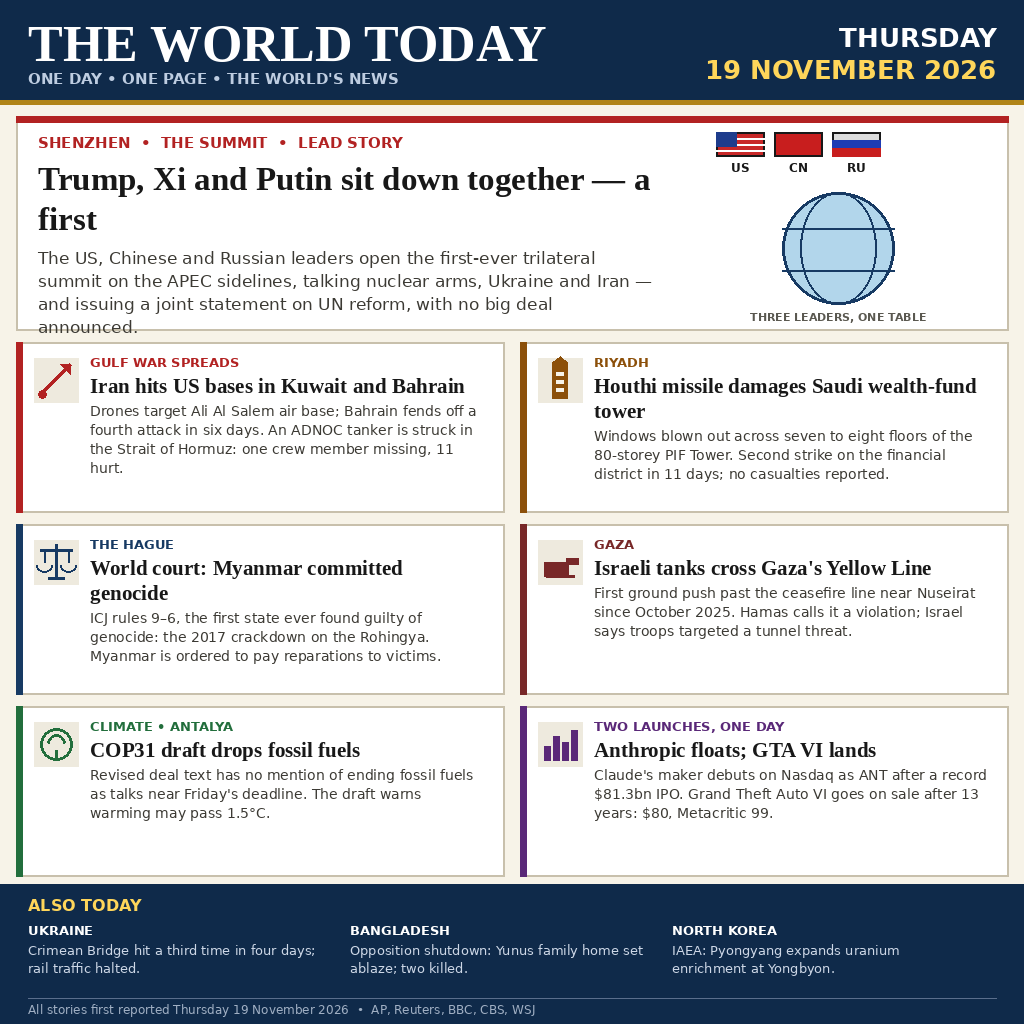
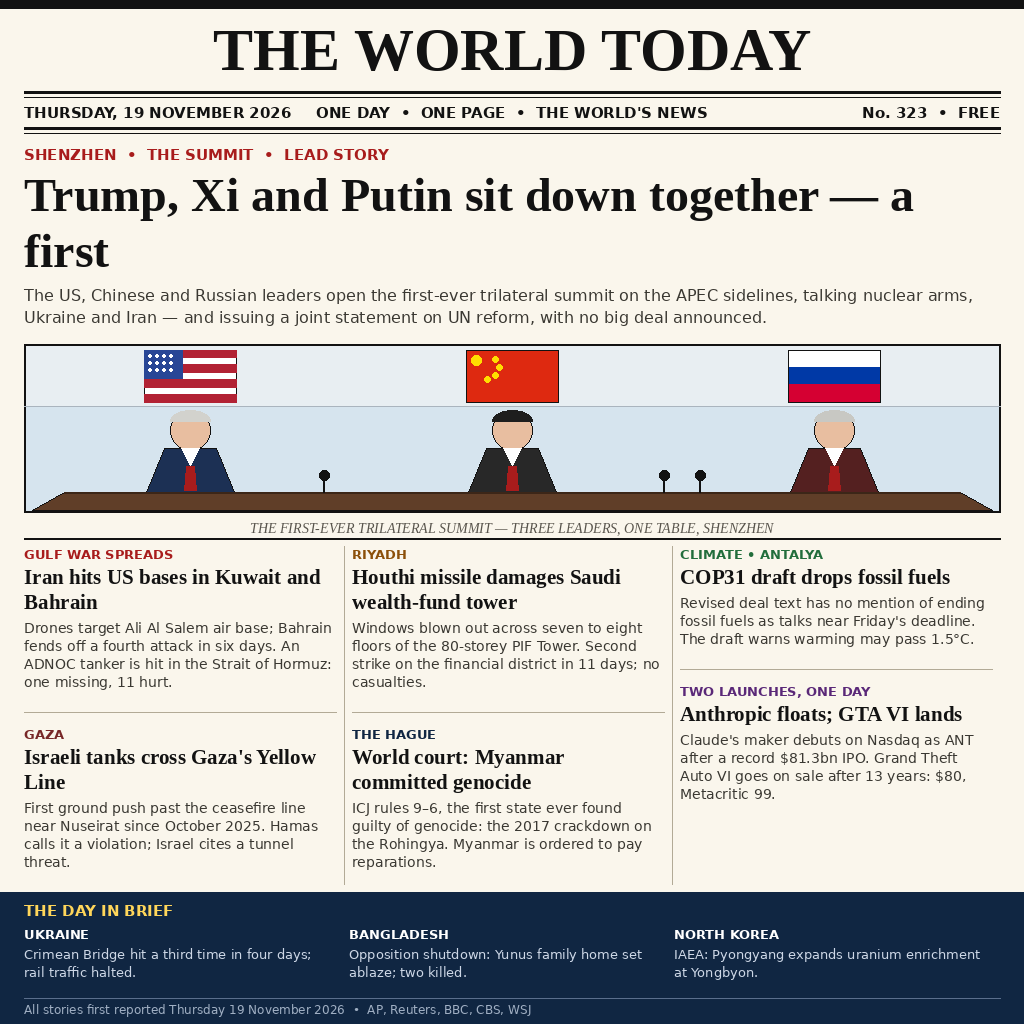
v3: broadsheet front page for 19 Nov 2026

diff --git a/main.ts b/main.ts
@@ -1,4 +1,4 @@
-// news-image-20261119 v2 — "The World Today", Thursday 19 November 2026.
+// news-image-20261119 v3 — "The World Today" broadsheet, Thursday 19 November 2026.
 //
 // The entry is a single front-page image (entry.png, drawn for this day:
 // Shenzhen trilateral summit, Gulf war spreading, Riyadh tower strike,

diff --git a/README.md b/README.md
@@ -6,10 +6,11 @@
 
 ## What this is
 
-**THE WORLD TODAY** — one front page summing up the world's news of
-**Thursday, 19 November 2026**: a navy masthead, one full-width lead
-story with a drawn globe and the three leaders' flags, six colour-coded
-story cards, and an "ALSO TODAY" footer strip.
+**THE WORLD TODAY** — one broadsheet front page summing up the world's
+news of **Thursday, 19 November 2026**: a centred serif masthead, a
+full-width lead headline, a wide drawn scene of the three leaders at one
+summit table under the US, Chinese and Russian flags, a three-column
+story grid, and a "THE DAY IN BRIEF" footer strip.
 
 1. **Trump, Xi and Putin sit down together — a first** (lead): the first-ever
    US–China–Russia trilateral summit opens in Shenzhen on the APEC
@@ -17,10 +18,10 @@ story cards, and an "ALSO TODAY" footer strip.
    statement on UN reform, no big deal announced
 2. **Iran hits US bases in Kuwait and Bahrain**: drones target Ali Al Salem
    air base; Bahrain fends off a fourth attack in six days; an ADNOC tanker
-   is struck in the Strait of Hormuz — one crew member missing, 11 hurt
+   is hit in the Strait of Hormuz — one missing, 11 hurt
 3. **Houthi missile damages Saudi wealth-fund tower**: windows blown out
    across seven to eight floors of Riyadh's 80-storey PIF Tower; the second
-   strike on the financial district in 11 days; no casualties reported
+   strike on the financial district in 11 days; no casualties
 4. **World court: Myanmar committed genocide**: the ICJ rules 9–6 — the first
    state ever found guilty of genocide — over the 2017 Rohingya crackdown,
    and orders reparations
